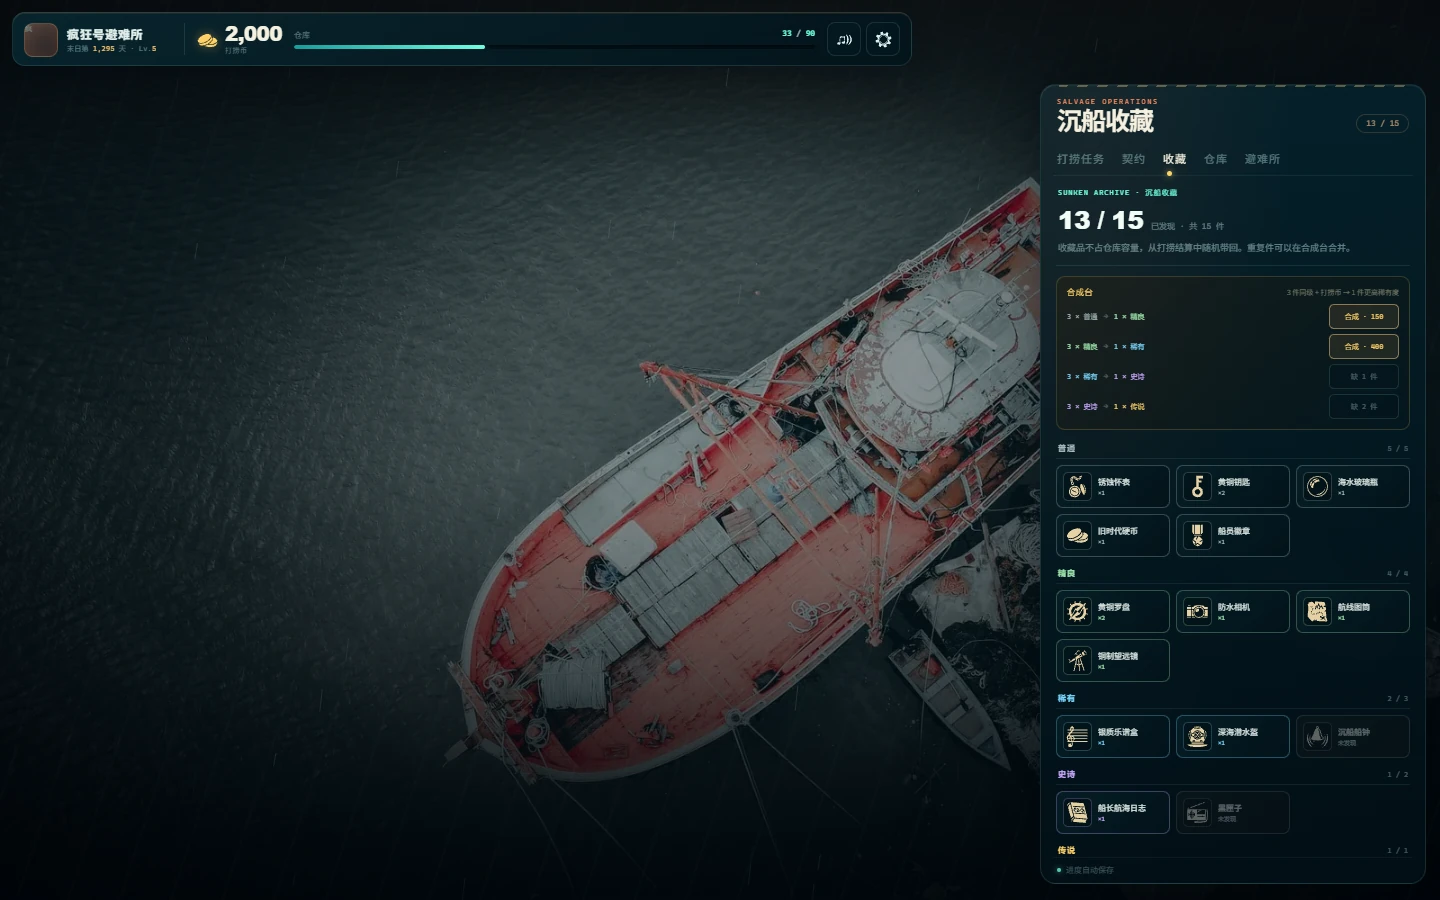
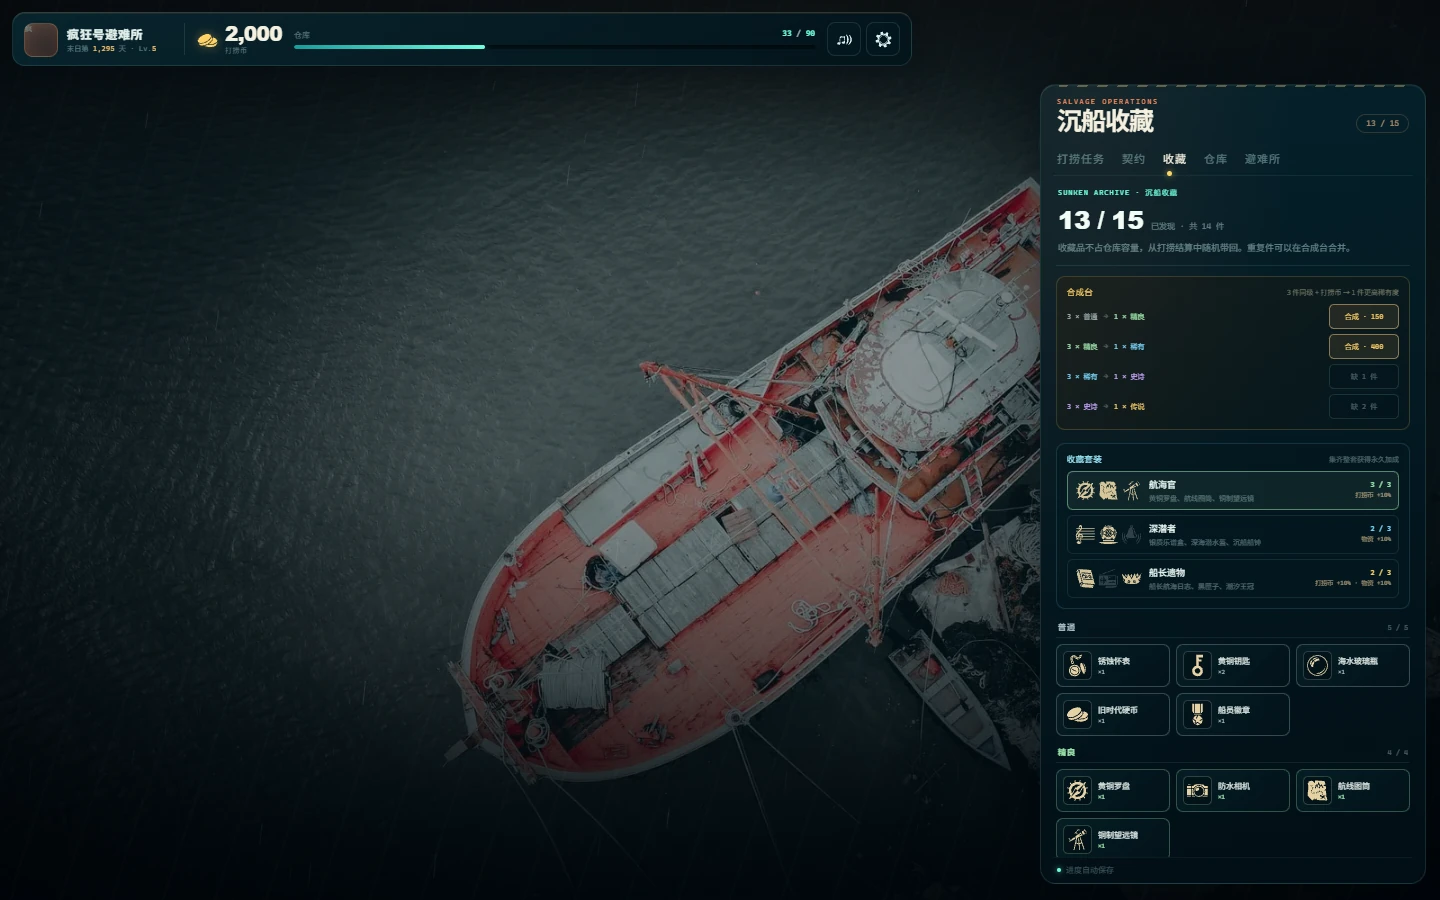
v2.9: 收藏套装与永久收益加成

Changed region(s): [[0.7188, 0.4978, 0.9688, 0.9644], [0.9062, 0.8089, 0.9688, 0.9022], [0.9062, 0.4978, 0.9688, 0.5911]]

diff --git a/js/hub.js b/js/hub.js
@@ -341,10 +341,12 @@
     return sum;
   };
   Hub.prototype.creditMult = function () {
-    return 1 + (this.data.upgrades.workshop || 0) * 0.1 + (this.data.upgrades.purifier || 0) * 0.1;
+    var setBonus = this.collectionSetBonuses();
+    return 1 + (this.data.upgrades.workshop || 0) * 0.1 + (this.data.upgrades.purifier || 0) * 0.1 + setBonus.credit;
   };
   Hub.prototype.materialMult = function () {
-    return 1 + (this.data.upgrades.sonar || 0) * 0.12 + (this.data.upgrades.purifier || 0) * 0.05;
+    var setBonus = this.collectionSetBonuses();
+    return 1 + (this.data.upgrades.sonar || 0) * 0.12 + (this.data.upgrades.purifier || 0) * 0.05 + setBonus.mat;
   };
   Hub.prototype.hookTime = function () { return 60 + (this.data.upgrades.core || 0) * 5; };
   Hub.prototype.matchMoves = function () { return 30 + (this.data.upgrades.core || 0) * 2; };
@@ -674,6 +676,29 @@
     return false;
   };
 
+  Hub.prototype.collectionSetOwned = function (set) {
+    var n = 0;
+    var map = this.data.collectibles || {};
+    for (var i = 0; i < set.items.length; i++) if ((map[set.items[i]] || 0) > 0) n++;
+    return n;
+  };
+
+  Hub.prototype.collectionSetActive = function (set) {
+    return this.collectionSetOwned(set) >= set.items.length;
+  };
+
+  Hub.prototype.collectionSetBonuses = function () {
+    var out = { credit: 0, mat: 0, active: 0 };
+    for (var i = 0; i < CW.COLLECTION_SETS.length; i++) {
+      var set = CW.COLLECTION_SETS[i];
+      if (!this.collectionSetActive(set)) continue;
+      out.active += 1;
+      out.credit += set.bonus.credit || 0;
+      out.mat += set.bonus.mat || 0;
+    }
+    return out;
+  };
+
   Hub.prototype.rollCollectibles = function (result) {
     if (!CW.COLLECTIBLES || !CW.COLLECTIBLES.length) return [];
     if (!this.data.collectibles) this.data.collectibles = {};
@@ -803,6 +828,23 @@
         '<button class="craft-btn' + (can ? ' ready' : '') + '" data-action="craft" data-rarity="' + rec.from + '"' + (can ? '' : ' disabled') + '>' +
           (can ? '合成 · ' + fmt(rec.cost) : (have < 3 ? '缺 ' + (3 - have) + ' 件' : '缺打捞币')) +
         '</button>' +
+      '</div>';
+    }
+    html += '</div></div>';
+    html += '<div class="set-board"><div class="set-head"><span>收藏套装</span><small>集齐整套获得永久加成</small></div><div class="set-list">';
+    for (var si = 0; si < CW.COLLECTION_SETS.length; si++) {
+      var set = CW.COLLECTION_SETS[si];
+      var owned = this.collectionSetOwned(set);
+      var active = owned >= set.items.length;
+      var icons = '';
+      for (var ii = 0; ii < set.items.length; ii++) {
+        var setItem = CW.COLLECTIBLE_MAP[set.items[ii]];
+        icons += '<img class="' + ((map[setItem.id] || 0) > 0 ? '' : 'missing') + '" src="' + setItem.icon + '" alt="" title="' + setItem.name + '">';
+      }
+      html += '<div class="set-card' + (active ? ' active' : '') + '" style="--set-color:' + set.color + '">' +
+        '<div class="set-icons">' + icons + '</div>' +
+        '<div class="set-copy"><b>' + set.name + '</b><span>' + set.desc + '</span></div>' +
+        '<div class="set-status"><b>' + owned + ' / ' + set.items.length + '</b><em>' + set.bonusText + '</em></div>' +
       '</div>';
     }
     html += '</div></div>';

diff --git a/css/style.css b/css/style.css
@@ -511,6 +511,22 @@ body.muted .ic-mute { display: block; }
 .craft-btn { justify-self: end; min-width: 70px; min-height: 25px; padding: 0 7px; border: 1px solid rgba(122, 207, 205, 0.16); border-radius: 5px; background: rgba(3, 20, 28, 0.6); color: rgba(164, 199, 200, 0.4); font-family: var(--mono); font-size: 7px; }
 .craft-btn.ready { border-color: rgba(255, 206, 128, 0.48); color: #ffd166; background: rgba(255, 175, 84, 0.1); cursor: pointer; }
 .craft-btn.ready:hover { background: rgba(255, 175, 84, 0.18); }
+.set-board { margin: 0 0 13px; padding: 10px; border: 1px solid rgba(121, 216, 255, 0.14); border-radius: 9px; background: rgba(3, 23, 31, 0.5); }
+.set-head { display: flex; align-items: baseline; justify-content: space-between; gap: 8px; }
+.set-head span { font-family: var(--mono); font-size: 8px; letter-spacing: 0.1em; color: #9feeff; }
+.set-head small { font-size: 7px; color: rgba(164, 199, 200, 0.45); }
+.set-list { display: flex; flex-direction: column; gap: 5px; margin-top: 7px; }
+.set-card { display: grid; grid-template-columns: auto minmax(0, 1fr) auto; align-items: center; gap: 7px; padding: 6px 7px; border: 1px solid rgba(122, 207, 205, 0.12); border-radius: 6px; }
+.set-card.active { border-color: color-mix(in srgb, var(--set-color) 52%, transparent); background: color-mix(in srgb, var(--set-color) 7%, transparent); }
+.set-icons { display: flex; gap: 2px; }
+.set-icons img { width: 21px; height: 21px; object-fit: contain; opacity: 0.92; }
+.set-icons img.missing { opacity: 0.22; filter: grayscale(1); }
+.set-copy { display: flex; min-width: 0; flex-direction: column; gap: 2px; }
+.set-copy b { font-size: 9px; font-weight: 500; color: #e9f7f1; }
+.set-copy span { overflow: hidden; font-size: 7px; white-space: nowrap; text-overflow: ellipsis; color: rgba(164, 199, 200, 0.48); }
+.set-status { display: flex; flex-direction: column; align-items: flex-end; gap: 2px; }
+.set-status b { font-family: var(--mono); font-size: 7px; color: var(--set-color); }
+.set-status em { font-family: var(--mono); font-size: 6px; font-style: normal; white-space: nowrap; color: rgba(255, 216, 160, 0.62); }
 .collection-group { margin-bottom: 11px; }
 .collection-group > header { display: flex; align-items: baseline; justify-content: space-between; padding: 0 2px 5px; border-bottom: 1px solid rgba(122, 207, 205, 0.1); }
 .collection-group > header b { font-family: var(--mono); font-size: 8px; letter-spacing: 0.12em; color: var(--rarity); }

diff --git a/js/collectibles.js b/js/collectibles.js
@@ -54,6 +54,30 @@
     { rarity: 'legendary', weight: 2 }
   ];
 
+  CW.COLLECTION_SETS = [
+    {
+      id: 'navigator', name: '航海官', color: '#9be2a9',
+      desc: '黄铜罗盘、航线图筒、铜制望远镜',
+      items: ['brass-compass', 'chart-tube', 'copper-telescope'],
+      bonus: { credit: 0.1, mat: 0 },
+      bonusText: '打捞币 +10%'
+    },
+    {
+      id: 'deepsea', name: '深潜者', color: '#79d8ff',
+      desc: '银质乐谱盒、深海潜水盔、沉船船钟',
+      items: ['silver-musicbox', 'diving-helmet', 'ship-bell'],
+      bonus: { credit: 0, mat: 0.1 },
+      bonusText: '物资 +10%'
+    },
+    {
+      id: 'captain', name: '船长遗物', color: '#ffd166',
+      desc: '船长航海日志、黑匣子、潮汐王冠',
+      items: ['captain-log', 'black-box', 'tide-crown'],
+      bonus: { credit: 0.1, mat: 0.1 },
+      bonusText: '打捞币 +10% · 物资 +10%'
+    }
+  ];
+
   CW.collectiblesOfRarity = function (rarity) {
     var out = [];
     for (var k = 0; k < COLLECTIBLES.length; k++) {

diff --git a/index.html b/index.html
@@ -133,7 +133,7 @@
       </div>
       <div class="title-footer">
         <span>末日实景素材 · 本地图片 · 无离线收益</span>
-        <span>v2.8 · FLOODLINE SALVAGE</span>
+        <span>v2.9 · FLOODLINE SALVAGE</span>
       </div>
     </section>
 
@@ -218,7 +218,7 @@
         <button class="btn ghost wide" data-action="guide">查看玩法说明</button>
         <button id="reset-save" class="btn danger wide" data-action="reset-save">清空避难所</button>
         <p class="modal-note">清空会删除打捞币、物资和所有扩建，无法撤销。再次点击确认。</p>
-        <p class="version">疯狂水世界 · v2.8 · 本地图片素材 + 程序化特效，无远程依赖</p>
+        <p class="version">疯狂水世界 · v2.9 · 本地图片素材 + 程序化特效，无远程依赖</p>
       </div>
     </section>
 
@@ -291,6 +291,7 @@
   </main>
 </body>
 </html>
+
 
 
 

diff --git a/DESIGN.md b/DESIGN.md
@@ -1,6 +1,6 @@
 # 疯狂水世界 · 游戏设计文档
 
-> 版本：2.8 · 类型：末日打捞 / 小游戏合集 / 轻经营  
+> 版本：2.9 · 类型：末日打捞 / 小游戏合集 / 轻经营  
 > 平台：桌面与移动端浏览器 · 单局 1–3 分钟 · 无离线收益
 
 ---
@@ -271,6 +271,11 @@ HUD 以「末日第 1,281 天」计量时间，每完成一局打捞推进 2 天
 - 稀有度权重：普通 52 / 精良 27 / 稀有 13 / 史诗 6 / 传说 2。
 - 合成台：3 件同稀有度 + 打捞币 → 1 件下一稀有度；费用 150 / 400 / 1,000 / 2,500。
 - 合成随机产出下一稀有度的任意收藏；重复件优先消耗数量最多的藏品。
+- 三套永久套装：
+  - 航海官（黄铜罗盘 / 航线图筒 / 铜制望远镜）：打捞币 +10%。
+  - 深潜者（银质乐谱盒 / 深海潜水盔 / 沉船船钟）：物资 +10%。
+  - 船长遗物（船长航海日志 / 黑匣子 / 潮汐王冠）：打捞币 +10% · 物资 +10%。
+- 套装加成为被动，直接叠加到工坊 / 声呐 / 净水舱倍率，不需要点击领取。
 - 契约新增「沉船收藏家」，进度按单局实际带回的收藏件数累计。
 - 收藏图标全部来自 Game-icons.net（CC BY 3.0），下载为本地 SVG；不依赖远程图床。
 - 收集与合成都只由玩家主动打捞触发，不产生离线收益。
@@ -376,7 +381,7 @@ CREDITS.md                        图片与图标授权
 - 背景与物件均通过 `Image` 预加载后用 `drawImage` 合成；Canvas 不再绘制场景/物件本体。
 - 主循环 `requestAnimationFrame`，`dt` 限制 50ms。
 - 画布总像素预算约 420 万，超过自动降低 DPR。
-- 存档写入 `crazywater.floodline.v1`，包含 `filters` 稀有物、`filterPity` 保底计数、`collectibles` 收藏、`contracts` 契约进度 / `contractRound` 轮次与 `upgrades.purifier`；仅在开始、结算、扩建、领取契约、合成和页面退出时写入。
+- 存档写入 `crazywater.floodline.v1`，包含 `filters` 稀有物、`filterPity` 保底计数、`collectibles` 收藏、`contracts` 契约进度 / `contractRound` 轮次与 `upgrades.purifier`；套装加成由已拥有收藏实时计算，不单独存档。仅在开始、结算、扩建、领取契约、合成和页面退出时写入。
 - 音效开关：`crazywater.muted.v1`。
 - **没有**离线收益、最后在线时间结算或后台模拟。
 
@@ -393,6 +398,7 @@ CREDITS.md                        图片与图标授权
 ---
 
 所有核心数值集中在 `js/hub.js`、`js/arcade.js`、`js/match.js` 顶部，方便直接调整并重新平衡。过滤器出现率分别在 `HookGame.buildField`（12%）和 `MatchGame.finish`（5%）中调整。
+
 
 
 

diff --git a/ROADMAP.md b/ROADMAP.md
@@ -2,7 +2,13 @@
 
 > 每 2 小时一轮。每轮先列计划，再做一项以上有意义的改动，并完成测试与文档更新。
 
-## 当前版本：v2.8
+## 当前版本：v2.9
+
+### v2.9 · 收藏套装
+
+- 三套永久收藏加成：航海官（打捞币 +10%）、深潜者（物资 +10%）、船长遗物（双 +10%）。
+- 集齐整套自动生效，直接叠加工坊 / 声呐 / 净水舱倍率，不需要领取。
+- 收藏页新增套装进度与激活状态；合成、掉落的藏品都能用于补齐套装。
 
 ### v2.8 · 沉船收藏与合成
 
@@ -48,11 +54,11 @@
 
 1. **每日挑战种子**：固定三消棋盘/抓钩物品序列，完成后给一次性奖励；不做离线收益。
 2. **成就与记录**：最高连击、单局材料、过滤器总数、净水舱等级；只记录，不提供离线产出。
-3. **收藏扩展**：成套收藏加成、收藏陈列墙、定向合成。
+3. **收藏陈列墙**与定向合成。
 4. **声呐扩展**：双层海床、干扰物、连锁扫描。
 5. **海况组合**：双词条、极端海况与对应契约。
 6. **体验维护**：移动端面板、图片加载、色弱可读性、音频层次、结算信息。
-6. **契约扩展**：稀有契约、连续完成奖励、跨局目标。
+7. **契约扩展**：稀有契约、连续完成奖励、跨局目标。
 
 ## 每轮固定流程
 
@@ -62,6 +68,7 @@
 4. 更新版本号、README / DESIGN、必要的预览图和 `CREDITS.md`。
 5. 回复按「计划 → 改动 → 测试 → 下一轮候选」输出。
 6. 保持：**无离线收益、无体力、无远程运行时依赖**。
+
 
 
 

diff --git a/README.md b/README.md
@@ -141,7 +141,19 @@ python -m http.server 4173
 | 3 稀有 → 1 史诗 | 1,000 |
 | 3 史诗 → 1 传说 | 2,500 |
 
-- 「契约」中新增「沉船收藏家」目标；收藏品与过滤器、仓库、海况互不冲突。
+### 收藏套装
+
+集齐指定三件藏品后，永久获得加成，不需要手动领取：
+
+| 套装 | 组成 | 永久加成 |
+| --- | --- | --- |
+| 航海官 | 黄铜罗盘 + 航线图筒 + 铜制望远镜 | 打捞币 +10% |
+| 深潜者 | 银质乐谱盒 + 深海潜水盔 + 沉船船钟 | 物资 +10% |
+| 船长遗物 | 船长航海日志 + 黑匣子 + 潮汐王冠 | 打捞币 +10% · 物资 +10% |
+
+- 套装与工坊、声呐、净水舱倍率叠加。
+- 收藏品与过滤器、仓库、海况互不冲突。
+- 「契约」中新增「沉船收藏家」目标。
 - 收藏图标来自 **Game-icons.net**（CC BY 3.0），已下载为本地 SVG，不从远程加载。
 
 ## 稀有打捞物 · 海水过滤器
